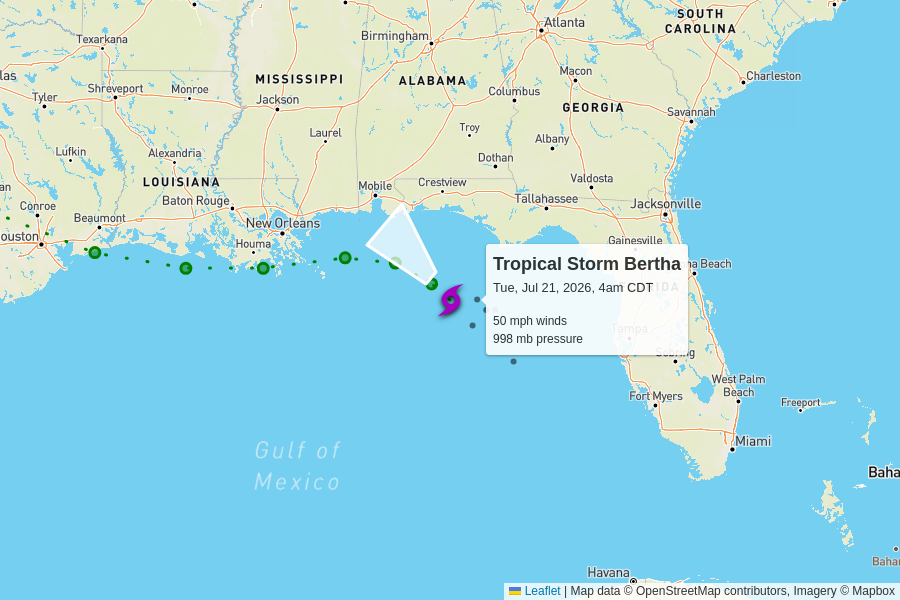
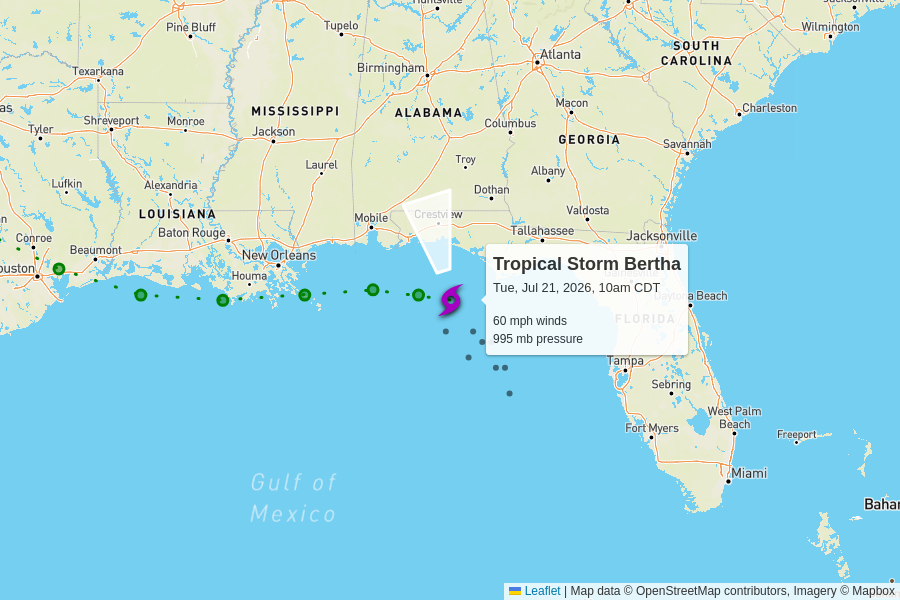
automatic update

diff --git a/docs/index.html b/docs/index.html
@@ -102,7 +102,7 @@
         <td colspan="6" class="storm category-0" >
           <h2>
             Tropical Storm Bertha
-            <p class="updated">last updated <span data-time>2026-07-21T09:00:00.000Z</span></p>
+            <p class="updated">last updated <span data-time>2026-07-21T15:00:00.000Z</span></p>
           </h2>
         </td>
       </tr>
@@ -117,12 +117,12 @@
       </tr>
       <tr>
         <td class="spacer"></td>
-        <td>50 mph<br>+10 mph since last update</td>
-        <td>998 mb<br>-1 mb since last update</td>
+        <td>60 mph<br>+10 mph since last update</td>
+        <td>995 mb<br>-3 mb since last update</td>
         <td>
-          5 mph to the northwest
+          3 mph to the north-northwest
           <br/>
-          <span style="display: inline-block; font-size: 1.5em; transform: rotate(315deg);">↑</span>
+          <span style="display: inline-block; font-size: 1.5em; transform: rotate(345deg);">↑</span>
         </td>
         <td><a href="https://raw.githubusercontent.com/mgwalker/atlantic-hurricanes/main/data/csv/AL022026.csv">AL022026.csv</a></td>
         <td><a href="https://www.nhc.noaa.gov/archive/2026/BERTHA.shtml?">NHC advisories</a></td>